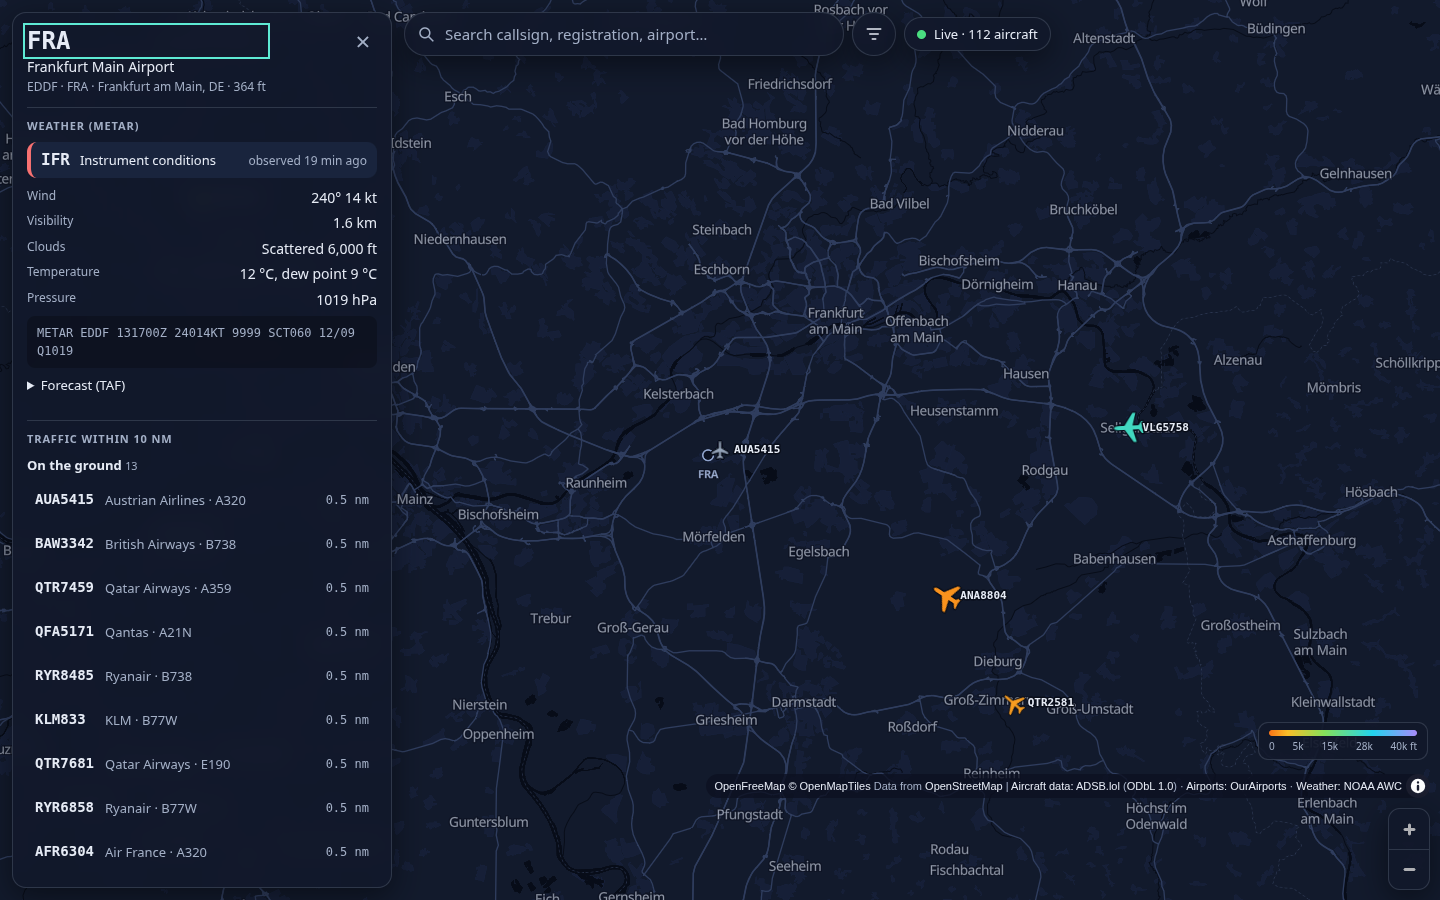
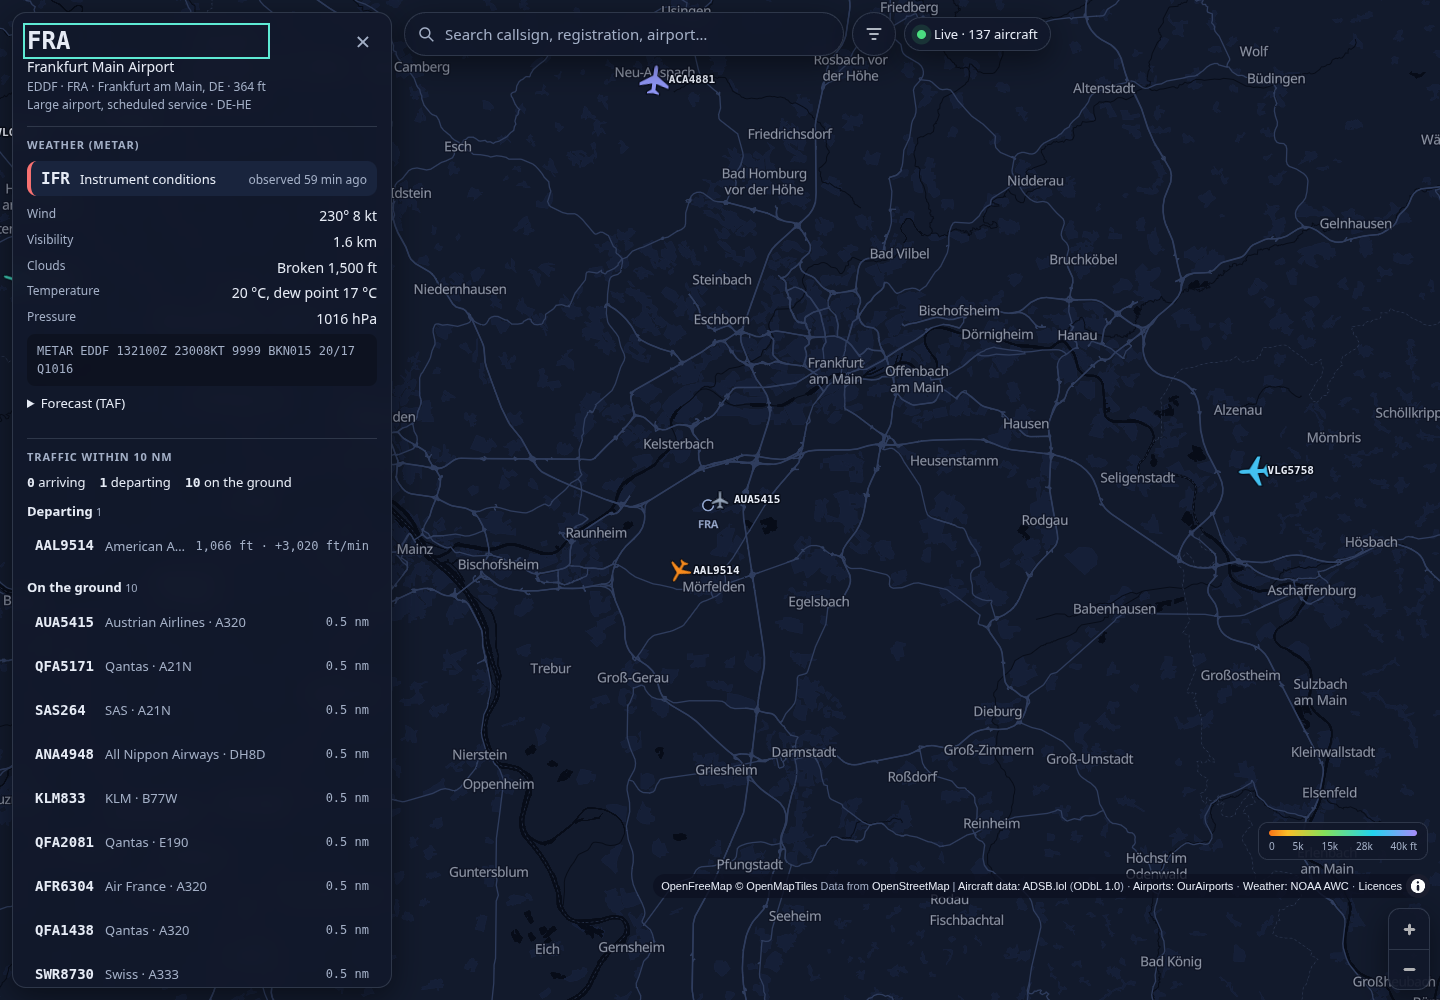
Cut tracks at gaps and jumps, opaque chips, new screenshots and README

diff --git a/web/src/ui/FilterChip.svelte b/web/src/ui/FilterChip.svelte
@@ -15,7 +15,8 @@
     padding: 0 4px 0 12px;
     min-height: 36px;
     border-radius: 999px;
-    background: rgba(94, 234, 212, 0.14);
+    /* tinted but opaque, so map labels never show through the text */
+    background: linear-gradient(rgba(94, 234, 212, 0.14), rgba(94, 234, 212, 0.14)), var(--surface-solid);
     border: 1px solid rgba(94, 234, 212, 0.5);
     font-size: 13px;
     max-width: 100%;

diff --git a/server/flightmap/trails.py b/server/flightmap/trails.py
@@ -35,6 +35,18 @@ PERSIST_SPACING_S = 30.0
 PERSIST_RETENTION_S = 3 * 3600.0
 
 
+# A track is drawn only from its last continuous stretch: a long silence or an implausible jump
+# (a position glitch, or an aircraft that left coverage and came back far away) must not become a line.
+BREAK_GAP_S = 300.0
+BREAK_JUMP_KM = 150.0
+
+
+def _jump_km(tr: _Trail, a: int, b: int) -> float:
+    dlat = (tr.lat[b] - tr.lat[a]) / 1e5
+    dlon = (tr.lon[b] - tr.lon[a]) / 1e5 * math.cos(math.radians(tr.lat[b] / 1e5))
+    return math.hypot(dlat, dlon) * 111.2
+
+
 class _Trail:
     __slots__ = (
         "airborne_seen",
@@ -263,6 +275,11 @@ class TrailStore:
         for _r, hex_, tr in found[:limit]:
             first = bisect.bisect_left(tr.t, tr.t[-1] - window_s)
             idx = list(range(first, len(tr.t)))
+            for k in range(len(idx) - 1, 0, -1):  # start after the last data gap or position jump
+                a, b = idx[k - 1], idx[k]
+                if tr.t[b] - tr.t[a] > BREAK_GAP_S or _jump_km(tr, a, b) > BREAK_JUMP_KM:
+                    idx = idx[k:]
+                    break
             if len(idx) < 2:
                 continue
             if len(idx) > max_points:

diff --git a/server/tests/test_recent_trails.py b/server/tests/test_recent_trails.py
@@ -53,6 +53,18 @@ class RecentTrailsTest(unittest.TestCase):
         _total, rows = s.recent(everything, window_s=3600, max_points=40, now=2195.0)
         self.assertEqual(len(rows[0][2]), 40)
 
+    def test_a_track_starts_after_its_last_gap_or_jump(self) -> None:
+        s = TrailStore(retention_s=3600, min_interval_s=1)
+        for i in range(6):  # a flight, then a 10 minute silence, then a few more fixes
+            s.record(ac(1, 50 + i * 0.01, 10), 1000.0 + i * 10, 1000.0 + i * 10)
+        for i in range(4):
+            s.record(ac(1, 50.5 + i * 0.01, 10), 1700.0 + i * 10, 1700.0 + i * 10)
+        for i in range(3):  # then a jump of about 500 km within one minute
+            s.record(ac(1, 55 + i * 0.01, 10), 1750.0 + i * 10, 1750.0 + i * 10)
+        _total, ((_h, _t, pts),) = s.recent(everything, window_s=3600, now=1800.0)
+        self.assertEqual(len(pts), 3)
+        self.assertTrue(all(p[1] >= 55 for p in pts))
+
     def test_limit_keeps_the_best_ranked_and_reports_the_total(self) -> None:
         s = TrailStore(retention_s=3600, min_interval_s=1)
         for h in range(1, 6):

diff --git a/README.md b/README.md
@@ -58,6 +58,9 @@ Demo mode:
 <p align="center">
   <img src="docs/screenshots/aircraft-panel.png" alt="Flight panel with photo, route, live values and charts" width="49%">
   <img src="docs/screenshots/airport-card.png" alt="Airport card with weather and nearby traffic" width="49%">
+  <img src="docs/screenshots/airport-info.png" alt="The same airport card scrolled to runways, frequencies and links" width="49%">
+  <img src="docs/screenshots/recent-tracks.png" alt="Europe with a 60 minute track behind every aircraft" width="49%">
+  <img src="docs/screenshots/filters.png" alt="Filter panel with callsign prefix, aircraft type and recent tracks, one aircraft type selected" width="49%">
   <img src="docs/screenshots/search.png" alt="Search results" width="49%">
   <img src="docs/screenshots/world-thinned.png" alt="Whole world, thinned to a few hundred aircraft" width="49%">
 </p>
@@ -66,6 +69,7 @@ Demo mode:
   <img src="docs/screenshots/mobile-map.png" alt="Phone: map" width="20%">
   <img src="docs/screenshots/mobile-sheet.png" alt="Phone: flight sheet" width="20%">
   <img src="docs/screenshots/mobile-sheet-full.png" alt="Phone: expanded sheet" width="20%">
+  <img src="docs/screenshots/mobile-filters.png" alt="Phone: filter panel with chips for the active filters" width="20%">
 </p>
 
 ## Quick start
@@ -186,7 +190,7 @@ The measurements in this README were taken on a development laptop, not on that 
 
 - `server/`: `python -m unittest discover -s tests -t .`, `ruff check`, `ruff format --check`, `npx pyright` (strict). Tests include the real provider against a fixture upstream that serves synthetic data shaped exactly like ADSB.lol responses.
 - `web/`: `npm run typecheck`, `npm test` (vitest), `npm run test:e2e` (Playwright against the real server and the built app, desktop and a Pixel 7 profile).
-- `web/scripts/perf.mjs` measures frame times (`GPU=1`, `THROTTLE=6`); `server/scripts/measure_trails.py` measures trail memory.
+- `web/scripts/perf.mjs` measures frame times (`GPU=1`, `THROTTLE=6`); `web/scripts/screenshots.mjs` and `screenshots-features.mjs` regenerate the demo screenshots; `server/scripts/measure_trails.py` measures trail memory.
 - CI (`.github/workflows/ci.yml`) runs all of it.
 
 ## Repository layout
